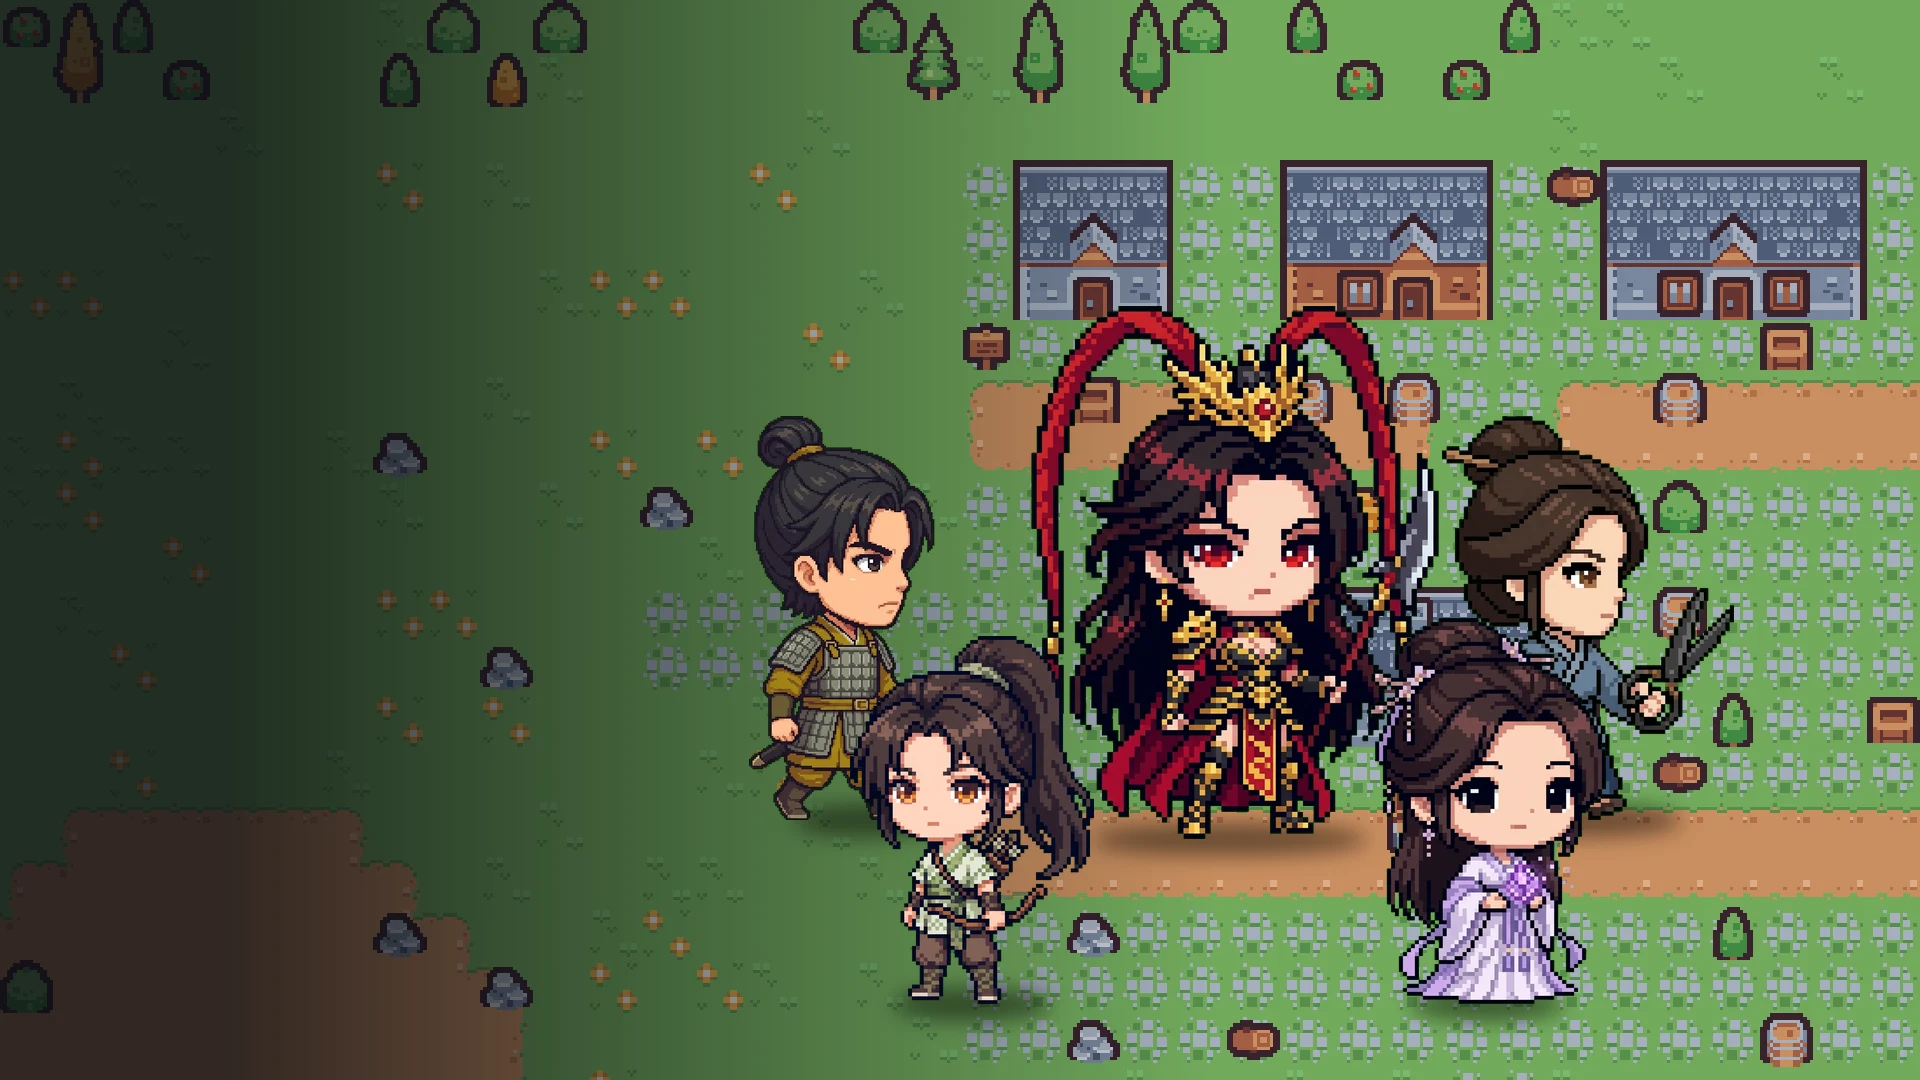
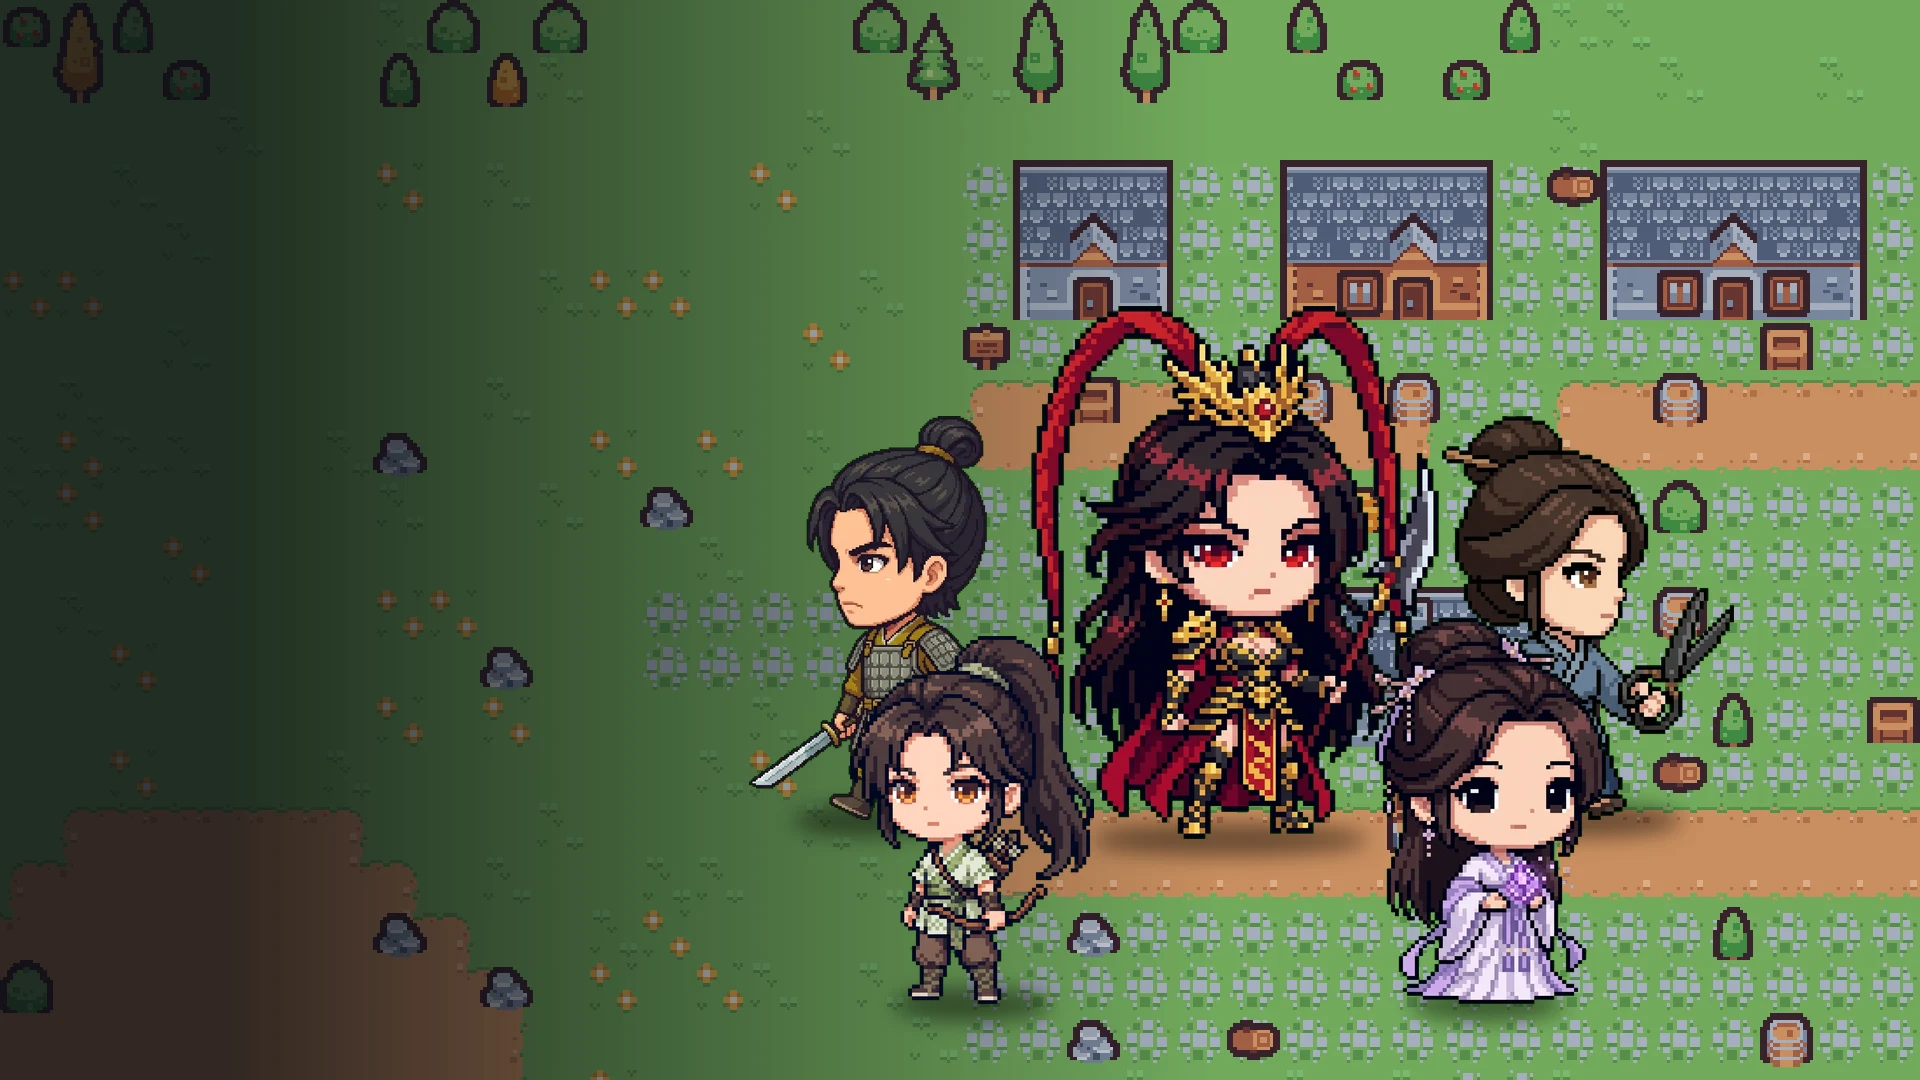
封面：魏續改面向左

Changed region(s): [[0.375, 0.3667, 0.5312, 0.7639]]

diff --git a/scripts/push_cover.py b/scripts/push_cover.py
@@ -1,0 +1,31 @@
+import json,urllib.request,os,time,base64,io,sys
+from PIL import Image
+K=open(os.path.expanduser('~/.config/larch/key')).read().strip()
+P='https://larch.ink/api/agent/projects/project-e35e734b-478d-458b-9221-294f81398b59'
+def req(m,path='',body=None,et=None):
+    h={'Authorization':'Bearer '+K,'Content-Type':'application/json'}
+    if et: h['If-Match']=et
+    for t in range(8):
+        r=urllib.request.Request(P+path,method=m,data=json.dumps(body).encode() if body is not None else None,headers=h)
+        try:
+            with urllib.request.urlopen(r,timeout=600) as x: return x.headers.get('ETag'),json.loads(x.read() or b'{}')
+        except urllib.error.HTTPError as e:
+            msg=e.read()[:300]
+            if e.code==429: time.sleep(30); continue
+            print(e.code,msg); raise
+src,name,summary=sys.argv[1],sys.argv[2],sys.argv[3]
+bio=io.BytesIO(); Image.open(src).save(bio,'WEBP',quality=90)
+_,j=req('POST','/media',{"name":name,"mimeType":"image/webp","category":"ui","base64":base64.b64encode(bio.getvalue()).decode()}); url=j['asset']['url']
+time.sleep(4)
+canon=lambda x: json.dumps(x,ensure_ascii=False,sort_keys=True)
+et,p=req('GET'); p=p.get('project',p)
+json.dump(p,open(f'snapshots/cover_{int(time.time())}.json','w'),ensure_ascii=False)
+boards=json.loads(json.dumps(p['boards'])); keep={k:canon(p.get(k)) for k in ('characters','variables','languages','name','description')}; pl=canon(p['settings'].get('plugins'))
+p['settings']['titleCoverImage']=url; p['settings']['projectThumbnail']=url
+et,_=req('PUT','',{"project":p,"summary":summary},et)
+for b in boards: et,_=req('PUT','/boards/'+b['id'],{"name":b['name'],"nodes":b['nodes'],"edges":b['edges'],"summary":"換封面後把版子原樣推回"},et)
+_,q=req('GET'); q=q.get('project',q); g={b['id']:b for b in q['boards']}
+for b in boards: assert canon(g[b['id']]['nodes'])==canon(b['nodes']) and canon(g[b['id']]['edges'])==canon(b['edges']),b['id']
+for k,v in keep.items(): assert canon(q.get(k))==v,k
+assert canon(q['settings'].get('plugins'))==pl
+print('OK',q['settings']['titleCoverImage'][-26:],len(boards),'boards verified')

diff --git a/scripts/cover3.py b/scripts/cover3.py
@@ -1,0 +1,28 @@
+from PIL import Image, ImageDraw, ImageFilter
+import numpy as np
+from scipy import ndimage
+SRC={'weixu':'sd/weixu_side1b_raw.png','xiang':'sd/xiang_han_raw.png'}
+FLIP={'weixu'}
+def cut(k,h):
+    a=np.array(Image.open(SRC.get(k,f'sd/{k}_raw.png')).convert('RGBA')).astype(int)
+    r,g,b=a[...,0],a[...,1],a[...,2]
+    key=(g>140)&(g>r+60)&(g>b+60); s=a.shape[0]/1024
+    edge=(~key)&ndimage.binary_dilation(key,iterations=max(2,int(3*s)))
+    a[...,3]=np.where(key,0,255); a[...,1]=np.where(edge,np.minimum(g,np.maximum(r,b)+25),g)
+    if k!='quan':
+        pure=(g>170)&(r<110)&(b<110)&(g>r+90)&(g>b+90); a[...,3]=np.where(pure,0,a[...,3])
+    o=Image.fromarray(a.astype('uint8')); o=o.crop(o.getbbox()); w=round(o.width*h/o.height); o=o.resize((w,h),Image.LANCZOS)
+    return o.transpose(Image.FLIP_LEFT_RIGHT) if k in FLIP else o
+mp=Image.open('map_render.png').convert('RGBA')
+bg=mp.crop((384,0,960,324)).resize((1920,1080),Image.NEAREST); W,H=bg.size
+px=np.zeros((H,W,4),dtype=np.uint8); xs=np.arange(W)/W
+px[...,3]=(np.clip(0.82-1.3*np.maximum(xs-0.12,0),0.15,0.82)*255).astype(np.uint8)[None,:]; px[...,:3]=(10,12,18)
+bg.alpha_composite(Image.fromarray(px))
+S=0.92; DX=-170
+L=[('weixu',440,1010,800),('xiang',440,1790,800),('lubu',580,1400,820),('quan',400,1120,1000),('diaochan',420,1680,1000)]
+for k,h,cx,fy in L:
+    h=int(h*S); cx=int(1400+(cx-1400)*S)+DX; fy=int(560+(fy-560)*S)+40
+    c=cut(k,h); sh=Image.new('RGBA',(W,H)); d=ImageDraw.Draw(sh)
+    d.ellipse((cx-c.width*0.32,fy-16,cx+c.width*0.32,fy+16),fill=(0,0,0,120)); bg.alpha_composite(sh.filter(ImageFilter.GaussianBlur(10)))
+    bg.alpha_composite(c,(int(cx-c.width/2),int(fy-c.height)))
+bg.convert('RGB').save('cover/cover3.png'); bg.convert('RGB').resize((960,540)).save('cover/cover3_prev.png')
